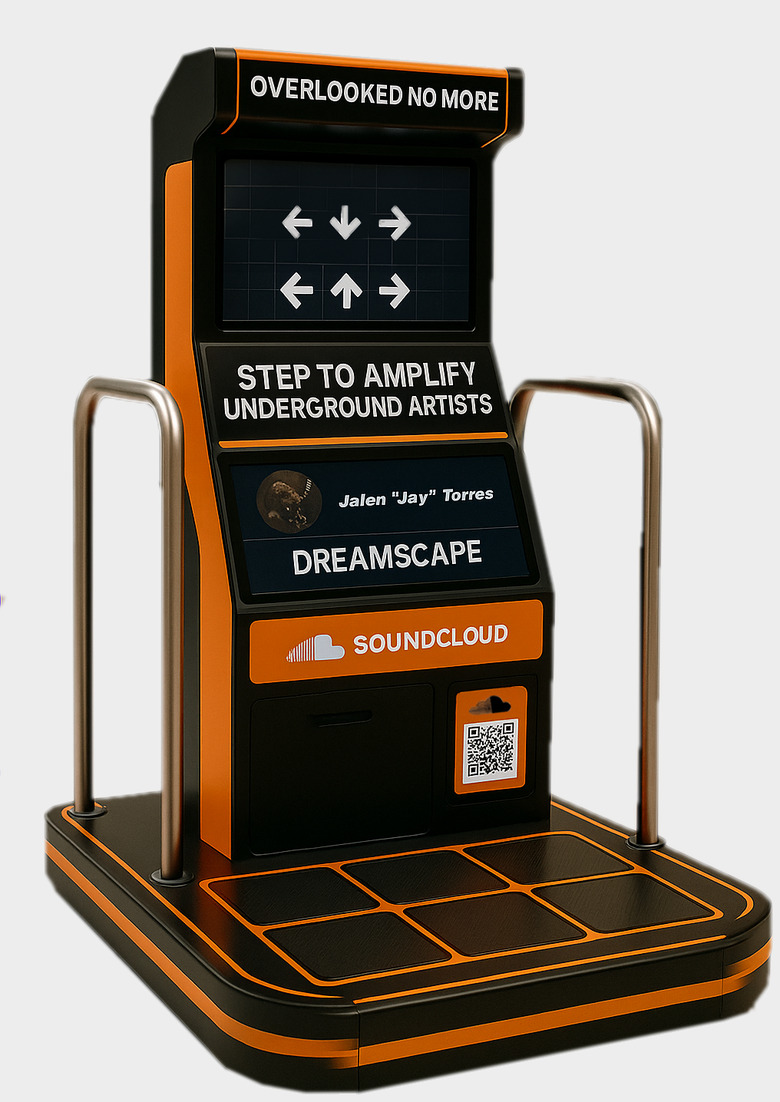
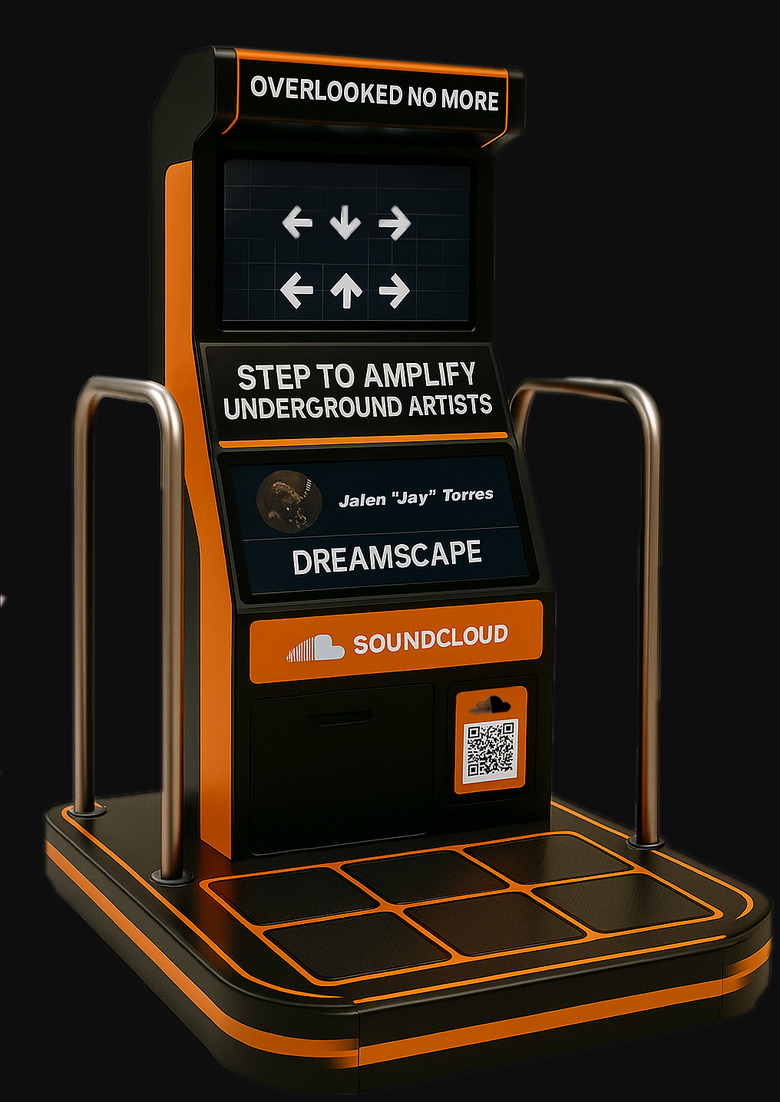
Lead SoundCloud with the spot and invert the bands
The audio spot now opens the page, above the billboards: it is the only
piece that plays, so it makes the argument before a still has to.

The dark band moves to the middle. Chapters 01 and 05 run on paper and
02, 03 and 04 share one continuous dark band, so the page reads
light-dark-light instead of dark-light-dark.

Six plates had a flat ground baked into their pixels to match the band
they used to sit on, which would have left grey rectangles on black and
black rectangles on paper. Re-grounded all six from the originals at
identical dimensions: billboard-neon, chart, audio-ad and social to
paper, arcade and print-spread to dark.

Claude-Session: https://claude.ai/code/session_01JEuyM9BFofSz7ud4NwGMZi

diff --git a/project-soundcloud.html b/project-soundcloud.html
@@ -45,8 +45,17 @@
 </section>
 
 <div class="wrap">
-  <!-- The billboards lead the page: the whole argument is an unknown name at the
-       scale of a building, so that is the first thing anyone sees. -->
+  <!-- The spot opens the page: it is the only piece that plays, so it makes the
+       argument before a single still has to. -->
+  <figure class="film film--bleed" data-reveal>
+    <video width="1280" height="720" src="assets/soundcloud/audio-spot.mp4"
+           poster="assets/soundcloud/audio-spot-poster.jpg"
+           muted loop playsinline preload="none" data-autoplay></video>
+    <button class="sound-btn" data-sound>Sound on</button>
+    <figcaption class="meta">The spot. Sound on, it is the whole point.</figcaption>
+  </figure>
+
+  <!-- Then the billboards: an unknown name at the scale of a building. -->
   <figure class="figure figure--two film--hero" data-reveal style="max-width:min(1408px,100%);margin-inline:auto">
     <img width="714" height="535" src="assets/soundcloud/billboard-wall.jpg"
          alt="Lit SoundCloud billboard on a street wall reading Overlooked No More" loading="eager" data-mask>
@@ -93,114 +102,101 @@
       Give an unknown a billboard and the claim proves itself.</p>
     </div>
   </div>
+  <div class="chapter" data-reveal>
+    <h2>The billboards</h2><span class="meta">01</span>
+  </div>
+  <div class="prose" data-reveal style="margin-bottom:clamp(20px,3vh,36px)">
+    <p>One artist, their waveform drawn at the scale of a building, and a code that
+    plays them. The unit works lit on a wall, projected onto a station concourse where
+    people are already looking down, or freestanding. The vertical screen runs the
+    other half of the argument: a chart of the artists the algorithm missed.</p>
+  </div>
 
-  <!-- Every execution is lit type on black, so the whole campaign section runs
-       on the dark band rather than fighting the page's paper. -->
+  <figure class="figure figure--two" data-reveal style="max-width:min(1250px,100%);margin-inline:auto;margin-bottom:0">
+    <img width="1000" height="884" src="assets/soundcloud/billboard-neon.jpg"
+         alt="Freestanding billboard for Liam Blackwood reading Overlooked No More" loading="lazy" data-mask>
+    <img width="611" height="1084" src="assets/soundcloud/chart.jpg"
+         alt="Vertical screen listing the top overlooked artists" loading="lazy" data-mask>
+    <figcaption class="meta">A named artist, and a chart of the ones the algorithm missed.</figcaption>
+  </figure>
+
+  <!-- The AR sheets, the cabinet and the press pages all sit on the dark
+       band; the billboards and the spot now run on paper. -->
   <div class="on-dark">
     <div class="chapter" data-reveal>
-      <h2>The billboards</h2><span class="meta">01</span>
+      <h2>Scan to listen</h2><span class="meta">02</span>
     </div>
     <div class="prose" data-reveal style="margin-bottom:clamp(20px,3vh,36px)">
-      <p>One artist, their waveform drawn at the scale of a building, and a code that
-      plays them. The unit works lit on a wall, projected onto a station concourse where
-      people are already looking down, or freestanding. The vertical screen runs the
-      other half of the argument: a chart of the artists the algorithm missed.</p>
+      <p>The cheapest media in the campaign and the only one that puts the music in your
+      hand on the street. Paste it up, scan it, and the artist is playing before you have
+      walked past. One face, one code, nothing else on the sheet.</p>
     </div>
 
-    <figure class="figure figure--two" data-reveal style="max-width:min(1250px,100%);margin-inline:auto;margin-bottom:0">
-      <img width="1000" height="884" src="assets/soundcloud/billboard-neon.jpg"
-           alt="Freestanding billboard for Liam Blackwood reading Overlooked No More" loading="lazy" data-mask>
-      <img width="611" height="1084" src="assets/soundcloud/chart.jpg"
-           alt="Vertical screen listing the top overlooked artists" loading="lazy" data-mask>
-      <figcaption class="meta">A named artist, and a chart of the ones the algorithm missed.</figcaption>
+    <figure class="figure figure--inset" data-reveal style="max-width:min(720px,100%)">
+      <img width="1024" height="1024" src="assets/soundcloud/ar-poster.jpg"
+           alt="Pasted SoundCloud poster being scanned, launching an AR player" loading="lazy" data-mask>
+      <figcaption class="meta">Scanned off a wall, playing in seconds.</figcaption>
     </figure>
-  </div>
 
-  <div class="chapter" data-reveal>
-    <h2>Scan to listen</h2><span class="meta">02</span>
-  </div>
-  <div class="prose" data-reveal style="margin-bottom:clamp(20px,3vh,36px)">
-    <p>The cheapest media in the campaign and the only one that puts the music in your
-    hand on the street. Paste it up, scan it, and the artist is playing before you have
-    walked past. One face, one code, nothing else on the sheet.</p>
-  </div>
+    <figure class="figure figure--two" data-reveal style="max-width:min(1440px,100%);margin-inline:auto">
+      <img width="900" height="900" src="assets/soundcloud/ar-subway.jpg"
+           alt="The same poster pasted on a subway platform" loading="lazy" data-mask>
+      <img width="900" height="900" src="assets/soundcloud/ar-corner.jpg"
+           alt="The same poster pasted on a street corner" loading="lazy" data-mask>
+      <figcaption class="meta">Platform and corner. The same sheet, wherever there is a wall.</figcaption>
+    </figure>
 
-  <figure class="figure figure--inset" data-reveal style="max-width:min(720px,100%)">
-    <img width="1024" height="1024" src="assets/soundcloud/ar-poster.jpg"
-         alt="Pasted SoundCloud poster being scanned, launching an AR player" loading="lazy" data-mask>
-    <figcaption class="meta">Scanned off a wall, playing in seconds.</figcaption>
-  </figure>
-
-  <figure class="figure figure--two" data-reveal style="max-width:min(1440px,100%);margin-inline:auto">
-    <img width="900" height="900" src="assets/soundcloud/ar-subway.jpg"
-         alt="The same poster pasted on a subway platform" loading="lazy" data-mask>
-    <img width="900" height="900" src="assets/soundcloud/ar-corner.jpg"
-         alt="The same poster pasted on a street corner" loading="lazy" data-mask>
-    <figcaption class="meta">Platform and corner. The same sheet, wherever there is a wall.</figcaption>
-  </figure>
-
-  <div class="chapter" data-reveal>
-    <h2>Step to amplify</h2><span class="meta">03</span>
-  </div>
-  <div class="prose" data-reveal style="margin-bottom:clamp(20px,3vh,36px)">
-    <p>The piece I would fight for. A dance pad in a shopping centre, built like an
-    arcade cabinet: the harder the crowd plays, the further that artist climbs. It turns
-    a passive claim into something a stranger physically does on behalf of somebody they
-    have never heard of, in the least likely room for underground music there is.</p>
-  </div>
-
-  <figure class="figure figure--inset" data-reveal style="max-width:min(600px,100%)">
-    <img width="780" height="1102" src="assets/soundcloud/arcade.jpg"
-         alt="Arcade-style step pad reading Step to Amplify Underground Artists" loading="lazy" data-mask>
-    <figcaption class="meta">Step to amplify underground artists.</figcaption>
-  </figure>
-
-  <div class="chapter" data-reveal>
-    <h2>Print</h2><span class="meta">04</span>
-  </div>
-  <div class="prose" data-reveal style="margin-bottom:clamp(20px,3vh,36px)">
-    <p>Where the campaign gets to argue at length rather than in six words. Shot in the
-    same amber the rest of the work is lit in, and closing on the line the whole thing
-    rests on: <b>don&rsquo;t overlook what&rsquo;s waiting to be heard.</b></p>
-  </div>
-
-  <figure class="figure figure--two" data-reveal style="max-width:min(1400px,100%);margin-inline:auto">
-    <img width="950" height="1229" src="assets/soundcloud/print-flat.jpg"
-         alt="Full page press advertisement" loading="lazy" data-mask>
-    <img width="1300" height="1084" src="assets/soundcloud/print-spread.jpg"
-         alt="The press advertisement running in a magazine" loading="lazy" data-mask>
-    <figcaption class="meta">The page, and the page in the wild.</figcaption>
-  </figure>
-
-  <!-- Running a SoundCloud spot inside Spotify is the sharpest media call in the
-       deck, so it gets its own beat rather than a line in a list. -->
-  <div class="on-dark">
     <div class="chapter" data-reveal>
-      <h2>Bought on Spotify</h2><span class="meta">05</span>
+      <h2>Step to amplify</h2><span class="meta">03</span>
     </div>
     <div class="prose" data-reveal style="margin-bottom:clamp(20px,3vh,36px)">
-      <p>The audio spot runs as a <b>Spotify ad</b>. If the argument is that there is
-      music you are not being served, the place to make it is inside the service not
-      serving it, in the gap between two songs an algorithm chose for you. The same cut
-      runs as YouTube pre-roll and on radio, where there is no picture to hide behind.</p>
+      <p>The piece I would fight for. A dance pad in a shopping centre, built like an
+      arcade cabinet: the harder the crowd plays, the further that artist climbs. It turns
+      a passive claim into something a stranger physically does on behalf of somebody they
+      have never heard of, in the least likely room for underground music there is.</p>
     </div>
 
-    <figure class="film film--bleed" data-reveal>
-      <video width="1280" height="720" src="assets/soundcloud/audio-spot.mp4"
-             poster="assets/soundcloud/audio-spot-poster.jpg"
-             muted loop playsinline preload="none" data-autoplay></video>
-      <button class="sound-btn" data-sound>Sound on</button>
-      <figcaption class="meta">The spot. Sound on, it is the whole point.</figcaption>
+    <figure class="figure figure--inset" data-reveal style="max-width:min(600px,100%)">
+      <img width="780" height="1102" src="assets/soundcloud/arcade.jpg"
+           alt="Arcade-style step pad reading Step to Amplify Underground Artists" loading="lazy" data-mask>
+      <figcaption class="meta">Step to amplify underground artists.</figcaption>
     </figure>
 
-    <figure class="figure figure--two" data-reveal style="max-width:min(1260px,100%);margin-inline:auto;margin-bottom:0">
-      <img width="616" height="610" src="assets/soundcloud/audio-ad.jpg"
-           alt="SoundCloud audio advertisement playing, with a skip button" loading="lazy" data-mask>
-      <img width="1239" height="621" src="assets/soundcloud/social.jpg"
-           alt="Three short form social videos of an artist recording" loading="lazy" data-mask>
-      <figcaption class="meta">The spot, and the social cuts: first takes through to final mix.</figcaption>
+    <div class="chapter" data-reveal>
+      <h2>Print</h2><span class="meta">04</span>
+    </div>
+    <div class="prose" data-reveal style="margin-bottom:clamp(20px,3vh,36px)">
+      <p>Where the campaign gets to argue at length rather than in six words. Shot in the
+      same amber the rest of the work is lit in, and closing on the line the whole thing
+      rests on: <b>don&rsquo;t overlook what&rsquo;s waiting to be heard.</b></p>
+    </div>
+
+    <figure class="figure figure--two" data-reveal style="max-width:min(1400px,100%);margin-inline:auto">
+      <img width="950" height="1229" src="assets/soundcloud/print-flat.jpg"
+           alt="Full page press advertisement" loading="lazy" data-mask>
+      <img width="1300" height="1084" src="assets/soundcloud/print-spread.jpg"
+           alt="The press advertisement running in a magazine" loading="lazy" data-mask>
+      <figcaption class="meta">The page, and the page in the wild.</figcaption>
     </figure>
   </div>
+
+  <div class="chapter" data-reveal>
+    <h2>Bought on Spotify</h2><span class="meta">05</span>
+  </div>
+  <div class="prose" data-reveal style="margin-bottom:clamp(20px,3vh,36px)">
+    <p>The audio spot runs as a <b>Spotify ad</b>. If the argument is that there is
+    music you are not being served, the place to make it is inside the service not
+    serving it, in the gap between two songs an algorithm chose for you. The same cut
+    runs as YouTube pre-roll and on radio, where there is no picture to hide behind.</p>
+  </div>
+
+  <figure class="figure figure--two" data-reveal style="max-width:min(1260px,100%);margin-inline:auto;margin-bottom:0">
+    <img width="616" height="610" src="assets/soundcloud/audio-ad.jpg"
+         alt="SoundCloud audio advertisement playing, with a skip button" loading="lazy" data-mask>
+    <img width="1239" height="621" src="assets/soundcloud/social.jpg"
+         alt="Three short form social videos of an artist recording" loading="lazy" data-mask>
+    <figcaption class="meta">The spot, and the social cuts: first takes through to final mix.</figcaption>
+  </figure>
 
   <div class="prose" data-reveal style="max-width:56ch;padding-bottom:clamp(20px,3vh,40px)">
     <p>Nominated by SCAD for an American Advertising Federation award. What I would keep
